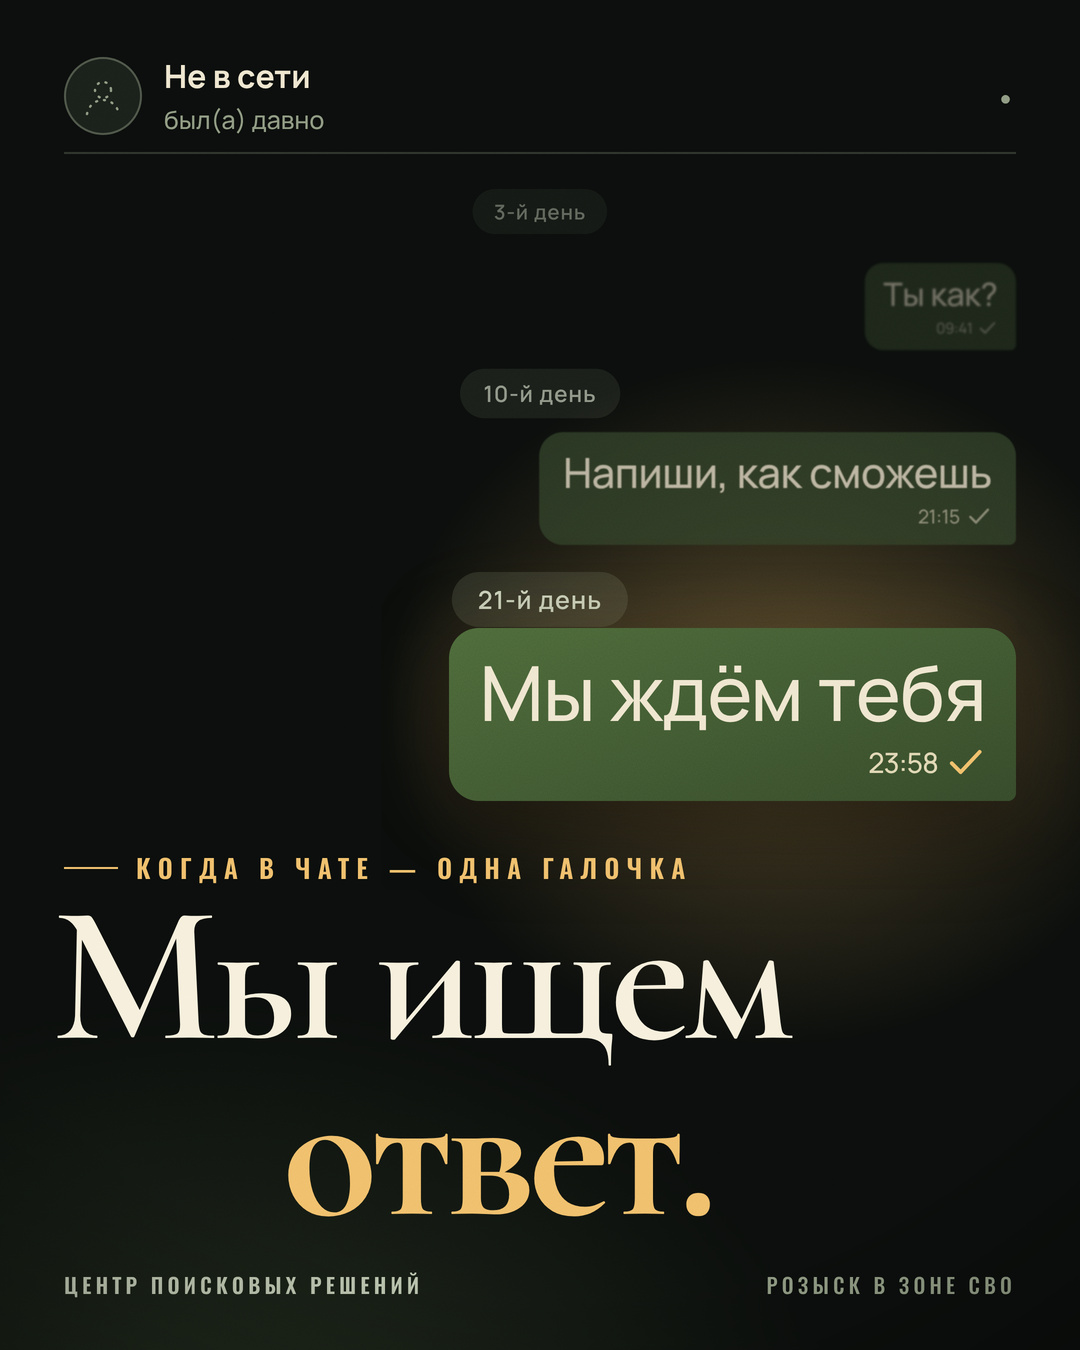
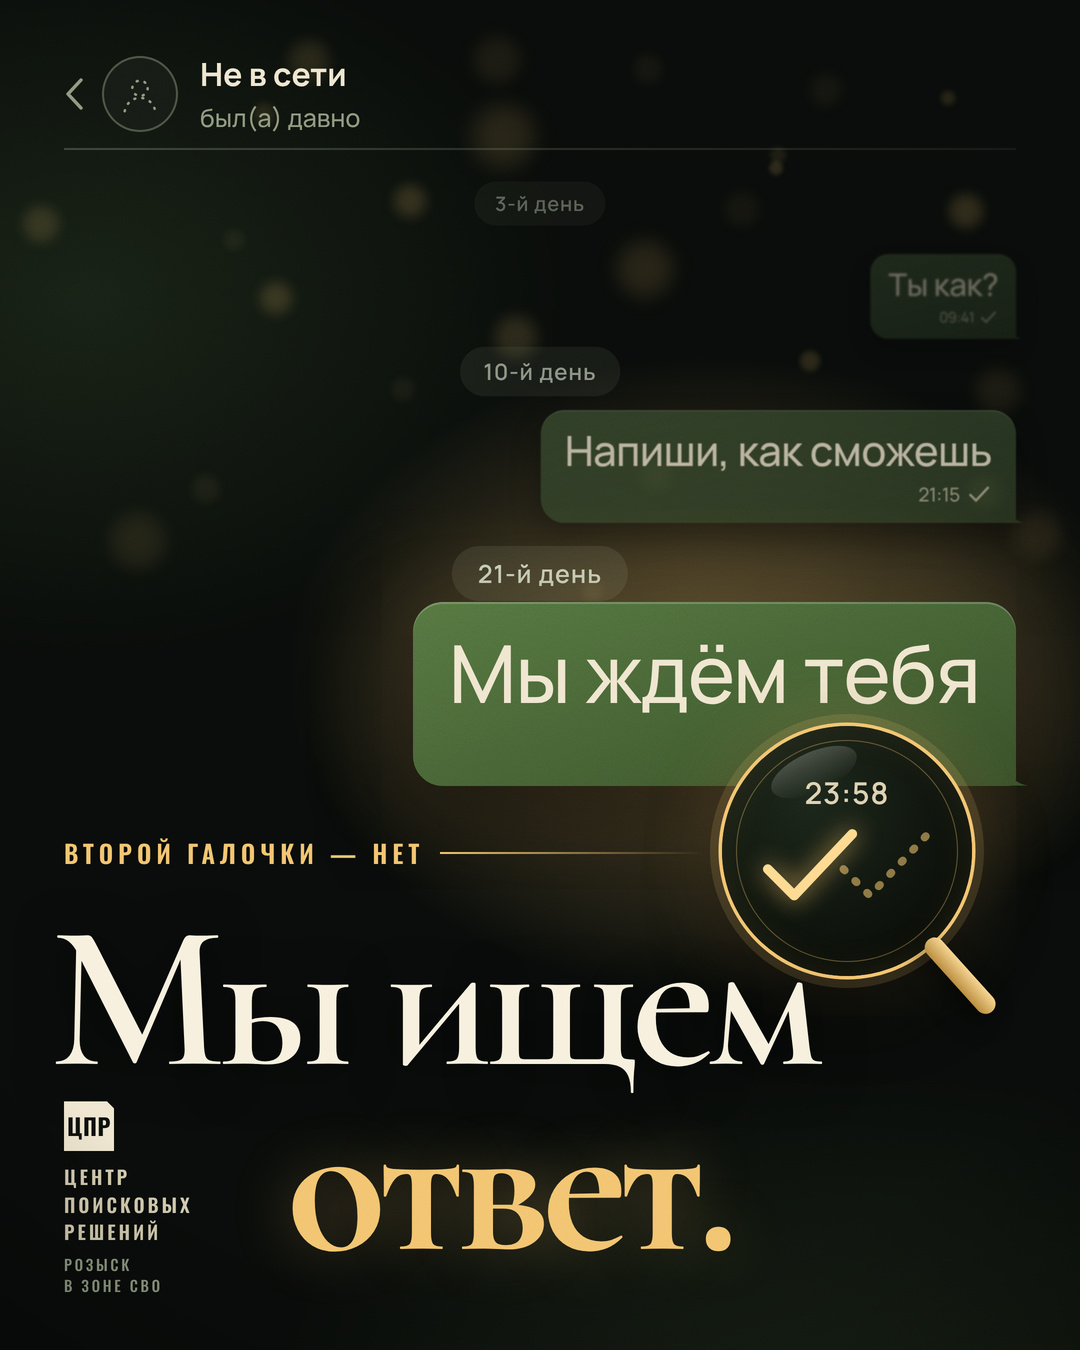
Polish chat post: magnifier on the missing second tick, bubble depth, brand block
Claude-Session: https://claude.ai/code/session_01NuJDMPrCwZ36H1xaabvcxP

diff --git a/psr-promo/src/post_chat.html b/psr-promo/src/post_chat.html
@@ -2,51 +2,77 @@
 <html lang="ru"><head><meta charset="utf-8"><title>ЦПР — пост «Одна галочка»</title>
 <link rel="stylesheet" href="/fonts/fonts.css"><link rel="stylesheet" href="/fonts/post.css"><link rel="stylesheet" href="/fonts/post2.css">
 <style>
-:root{--ink:#0b0e0c;--bub:#33432a;--bub2:#3f5232;--sand:#efe6cf;--gold:#f0bf6b;--mute:#8f9a82}
+:root{--ink:#090c0a;--bub:#2f3f27;--sand:#efe6cf;--gold:#f2c46f;--gold2:#ffe2a3;--mute:#8d987f}
 *{box-sizing:border-box;margin:0;padding:0}html,body{background:#000}
 .post{width:1080px;height:1350px;position:relative;overflow:hidden;background:var(--ink);color:var(--sand);font-family:Manrope,sans-serif}
-.glow{position:absolute;inset:0;background:radial-gradient(520px 460px at 72% 52%,rgba(240,191,107,.30),rgba(240,191,107,.08) 55%,transparent 75%),radial-gradient(900px 700px at 20% 110%,rgba(51,67,42,.55),transparent 70%)}
-.bigtick{position:absolute;left:-60px;top:260px;width:900px;height:900px;opacity:.16;transform:rotate(-6deg)}
-.hdr{position:absolute;left:64px;right:64px;top:54px;display:flex;align-items:center;gap:22px}
-.av{width:78px;height:78px;border-radius:50%;background:#1a201a;box-shadow:inset 0 0 0 2px rgba(143,154,130,.45);display:grid;place-items:center}
-.av svg{width:44px;height:44px;fill:none;stroke:var(--mute);stroke-width:2.4;stroke-linecap:round;stroke-dasharray:1 7}
+.glow{position:absolute;inset:0;background:
+ radial-gradient(560px 420px at 66% 50%,rgba(242,196,111,.34),rgba(242,196,111,.09) 58%,transparent 76%),
+ radial-gradient(700px 520px at 8% 22%,rgba(60,84,48,.30),transparent 70%),
+ radial-gradient(900px 600px at 80% 110%,rgba(40,56,32,.55),transparent 70%)}
+.bokeh{position:absolute;inset:0}
+.hdr{position:absolute;left:64px;right:64px;top:52px;display:flex;align-items:center;gap:22px}
+.back{width:20px;height:34px;fill:none;stroke:var(--mute);stroke-width:3.4;stroke-linecap:round;stroke-linejoin:round;margin-right:-4px}
+.av{width:76px;height:76px;border-radius:50%;background:#161c15;box-shadow:inset 0 0 0 2px rgba(141,152,127,.45);display:grid;place-items:center}
+.av svg{width:42px;height:42px;fill:none;stroke:var(--mute);stroke-width:2.6;stroke-linecap:round;stroke-dasharray:1 7.5}
 .hdr b{display:block;font:700 32px Manrope}.hdr small{display:block;font:500 25px Manrope;color:var(--mute);margin-top:4px}
-.hdr .dot{margin-left:auto;font:600 20px Oswald;letter-spacing:.22em;color:var(--mute)}
-.line{position:absolute;left:64px;right:64px;top:152px;height:1.5px;background:rgba(143,154,130,.28)}
+.line{position:absolute;left:64px;right:64px;top:148px;height:1.5px;background:linear-gradient(90deg,rgba(141,152,127,.35),rgba(141,152,127,.1))}
+.pill{position:absolute;left:50%;padding:10px 26px;border-radius:30px;background:rgba(141,152,127,.16);font:600 25px Manrope;letter-spacing:.04em;color:#c9d2bd;white-space:nowrap}
 .msg{position:absolute;right:64px;transform-origin:100% 50%}
-.pill{position:absolute;left:50%;transform:translateX(-50%);padding:10px 26px;border-radius:30px;background:rgba(143,154,130,.18);font:600 25px Manrope;letter-spacing:.04em;color:#c9d2bd;white-space:nowrap}
-.bub{position:relative;display:inline-block;background:var(--bub);color:var(--sand);padding:22px 30px 20px;border-radius:30px 30px 8px 30px;font:500 52px/1.12 Manrope;letter-spacing:-.01em}
+.bub{position:relative;display:inline-block;background:linear-gradient(165deg,#3a4d30,#2b3a24);color:var(--sand);padding:22px 30px 20px;border-radius:30px 30px 7px 30px;font:500 52px/1.12 Manrope;letter-spacing:-.012em;box-shadow:inset 0 1.5px 0 rgba(255,255,255,.12),0 18px 40px rgba(0,0,0,.45)}
+.bub:after{content:"";position:absolute;right:-12px;bottom:0;width:24px;height:26px;background:#2b3a24;clip-path:path('M0 0V26H24C10 24 3 14 0 0Z')}
 .bub .m{display:flex;align-items:center;justify-content:flex-end;gap:10px;margin-top:8px;font:500 24px Manrope;color:rgba(239,230,207,.62)}
 .bub svg{width:30px;height:22px;fill:none;stroke:rgba(239,230,207,.62);stroke-width:3;stroke-linecap:round;stroke-linejoin:round}
-.last{background:linear-gradient(160deg,#4d6a3a,#364a2a);box-shadow:0 30px 80px rgba(0,0,0,.55),0 0 90px rgba(240,191,107,.22);font-size:76px}
-.last .m{font-size:28px;color:rgba(255,240,205,.85)} .last svg{stroke:var(--gold);width:38px;height:28px}
-.kick{position:absolute;left:64px;top:848px;font:600 26px Oswald;letter-spacing:.28em;color:var(--gold);display:flex;gap:18px;align-items:center}
-.kick i{width:54px;height:2px;background:var(--gold)}
-h1{position:absolute;left:52px;top:888px;font:600 196px/.9 'Cormorant Garamond',serif;letter-spacing:-.035em;color:#f6efdc}
+.last{background:linear-gradient(160deg,#557640,#385029);font-size:80px;padding:26px 36px 22px;box-shadow:inset 0 2px 0 rgba(255,255,255,.2),0 36px 90px rgba(0,0,0,.6),0 0 110px rgba(242,196,111,.26)}
+.last:after{background:#385029}
+.last .m{font-size:28px;visibility:hidden} .last svg{stroke:var(--gold);width:38px;height:28px}
+.lens{position:absolute;left:722px;top:726px;width:250px;height:250px;border-radius:50%;background:radial-gradient(circle at 35% 28%,#1c261a,#0a0e09 72%);box-shadow:0 0 0 3.5px var(--gold),0 0 0 12px rgba(242,196,111,.14),0 30px 70px rgba(0,0,0,.7),0 0 80px rgba(242,196,111,.30),inset 0 0 40px rgba(242,196,111,.10);display:grid;place-items:center}
+.lens:before{content:"";position:absolute;inset:14px;border-radius:50%;box-shadow:inset 0 0 0 1px rgba(242,196,111,.35)}
+.lens:after{content:"";position:absolute;left:46px;top:26px;width:92px;height:40px;border-radius:50%;background:linear-gradient(180deg,rgba(255,255,255,.2),transparent);transform:rotate(-24deg)}
+.lens .t{position:absolute;top:46px;left:0;right:0;text-align:center;font:600 30px Manrope;color:rgba(255,240,205,.85);letter-spacing:.03em}
+.lens svg{width:176px;height:97px;margin-top:30px;overflow:visible}
+.handle{position:absolute;left:928px;top:930px;width:96px;height:20px;border-radius:12px;background:linear-gradient(180deg,#f7d58f,#b88a3d);transform:rotate(48deg);transform-origin:0 50%;box-shadow:0 10px 24px rgba(0,0,0,.5)}
+.note{position:absolute;left:64px;right:376px;top:834px;display:flex;align-items:center;gap:16px;font:600 25px Oswald;letter-spacing:.2em;color:var(--gold)}
+.note i{display:block;flex:1;height:2px;background:linear-gradient(90deg,var(--gold),rgba(242,196,111,.0));}
+h1{position:absolute;left:50px;top:906px;font:600 206px/.9 'Cormorant Garamond',serif;letter-spacing:-.04em;color:#f7f0de;text-shadow:0 8px 50px rgba(0,0,0,.6)}
 h1 span{display:block;white-space:nowrap}
-h1 .g{color:var(--gold);margin-left:230px;font-weight:700}
-.foot{position:absolute;left:64px;right:64px;bottom:50px;display:flex;justify-content:space-between;align-items:flex-end;font:600 21px Oswald;letter-spacing:.2em;color:#b9c2ac}
-.foot span:last-child{text-align:right;color:var(--mute);font-weight:500}
-.grain{position:absolute;inset:0;mix-blend-mode:overlay;opacity:.22;pointer-events:none}
-.vig{position:absolute;inset:0;background:radial-gradient(120% 100% at 50% 40%,transparent 55%,rgba(0,0,0,.6))}
+h1 .g{color:var(--gold);margin-left:236px;font-weight:700;text-shadow:0 0 60px rgba(242,196,111,.32)}
+.brand{position:absolute;left:64px;bottom:54px;width:200px}
+.mark{width:50px;height:50px;background:var(--sand);color:#0c100b;display:grid;place-items:center;font:700 23px Oswald;letter-spacing:.02em;clip-path:polygon(0 0,86% 0,100% 14%,100% 100%,0 100%);margin-bottom:12px}
+.brand b{display:block;font:600 19px/1.45 Oswald;letter-spacing:.16em;color:#d5cdb0}
+.brand small{display:block;margin-top:8px;font:500 15px/1.4 Oswald;letter-spacing:.18em;color:var(--mute)}
+.grain{position:absolute;inset:0;mix-blend-mode:overlay;opacity:.24;pointer-events:none}
+.vig{position:absolute;inset:0;background:radial-gradient(120% 100% at 50% 40%,transparent 55%,rgba(0,0,0,.65))}
 </style></head>
 <body><div class="post" id="post">
 <div class="glow"></div>
-<div class="hdr"><div class="av"><svg viewBox="0 0 44 44"><circle cx="22" cy="16" r="8"/><path d="M6 40c2-10 10-14 16-14s14 4 16 14"/></svg></div><div><b>Не в сети</b><small>был(а) давно</small></div><div class="dot">●</div></div>
+<svg class="bokeh" width="1080" height="1350" id="bk"></svg>
+<div class="hdr"><svg class="back" viewBox="0 0 20 34"><path d="M17 3L4 17l13 14"/></svg><div class="av"><svg viewBox="0 0 44 44"><circle cx="22" cy="16" r="8"/><path d="M6 40c2-10 10-14 16-14s14 4 16 14"/></svg></div><div><b>Не в сети</b><small>был(а) давно</small></div></div>
 <div class="line"></div>
 
-<div class="pill" style="top:184px;transform:translateX(-50%) scale(.82);opacity:.45">3-й день</div>
-<div class="msg" style="top:236px;transform:scale(.62);opacity:.45;filter:blur(1.6px)"><div class="bub">Ты как?<div class="m">09:41 <svg viewBox="0 0 30 22"><path d="M3 12l7 7L25 3"/></svg></div></div></div>
+<div class="pill" style="top:176px;transform:translateX(-50%) scale(.8);opacity:.42">3-й день</div>
+<div class="msg" style="top:226px;transform:scale(.6);opacity:.42;filter:blur(1.8px)"><div class="bub">Ты как?<div class="m">09:41 <svg viewBox="0 0 30 22"><path d="M3 12l7 7L25 3"/></svg></div></div></div>
 
-<div class="pill" style="top:366px;transform:translateX(-50%) scale(.9);opacity:.7">10-й день</div>
-<div class="msg" style="top:418px;transform:scale(.8);opacity:.75;filter:blur(.5px)"><div class="bub">Напиши, как сможешь<div class="m">21:15 <svg viewBox="0 0 30 22"><path d="M3 12l7 7L25 3"/></svg></div></div></div>
+<div class="pill" style="top:344px;transform:translateX(-50%) scale(.9);opacity:.68">10-й день</div>
+<div class="msg" style="top:396px;transform:scale(.8);opacity:.74;filter:blur(.5px)"><div class="bub">Напиши, как сможешь<div class="m">21:15 <svg viewBox="0 0 30 22"><path d="M3 12l7 7L25 3"/></svg></div></div></div>
 
-<div class="pill" style="top:572px">21-й день</div>
-<div class="msg" style="top:628px"><div class="bub last">Мы ждём тебя<div class="m">23:58 <svg viewBox="0 0 30 22"><path d="M3 12l7 7L25 3"/></svg></div></div></div>
+<div class="pill" style="top:546px;transform:translateX(-50%)">21-й день</div>
+<div class="msg" style="top:602px"><div class="bub last">Мы ждём тебя<div class="m">23:58 <svg viewBox="0 0 30 22"><path d="M3 12l7 7L25 3"/></svg></div></div></div>
 
-<div class="kick"><i></i>КОГДА В ЧАТЕ — ОДНА ГАЛОЧКА</div>
+<div class="lens"><div class="t">23:58</div>
+ <svg viewBox="0 0 200 110" fill="none" stroke-linecap="round" stroke-linejoin="round">
+  <path d="M96 58l30 30 66-70" stroke="rgba(242,196,111,.55)" stroke-width="9" stroke-dasharray="2 17"/>
+  <path d="M10 58l30 30 66-70" stroke="#ffd98f" stroke-width="11" style="filter:drop-shadow(0 0 14px rgba(255,200,110,.7))"/>
+ </svg></div>
+<div class="handle"></div>
+<div class="note">ВТОРОЙ ГАЛОЧКИ — НЕТ<i></i></div>
+
 <h1><span>Мы ищем</span><span class="g">ответ.</span></h1>
-<div class="foot"><span>ЦЕНТР ПОИСКОВЫХ РЕШЕНИЙ</span><span>РОЗЫСК В ЗОНЕ СВО</span></div>
+<div class="brand"><div class="mark">ЦПР</div><b>ЦЕНТР<br>ПОИСКОВЫХ<br>РЕШЕНИЙ</b><small>РОЗЫСК<br>В ЗОНЕ СВО</small></div>
 <div class="vig"></div>
 <svg class="grain" width="1080" height="1350"><filter id="n"><feTurbulence type="fractalNoise" baseFrequency=".85" numOctaves="3" seed="11"/><feColorMatrix values="0 0 0 0 .5  0 0 0 0 .5  0 0 0 0 .5  0 0 0 1.3 -.3"/></filter><rect width="100%" height="100%" filter="url(#n)"/></svg>
-</div></body></html>
+</div>
+<script>
+let s=21;const r=()=>((s=(s*1664525+1013904223)>>>0)/4294967296);let h='';
+for(let i=0;i<26;i++){const x=r()*1080,y=r()*620,rad=6+r()*26,a=.05+r()*.12;h+=`<circle cx="${x.toFixed(0)}" cy="${y.toFixed(0)}" r="${rad.toFixed(0)}" fill="rgba(242,196,111,${a.toFixed(2)})" style="filter:blur(${(rad*.35).toFixed(0)}px)"/>`;}
+document.getElementById('bk').innerHTML=h;
+</script></body></html>
